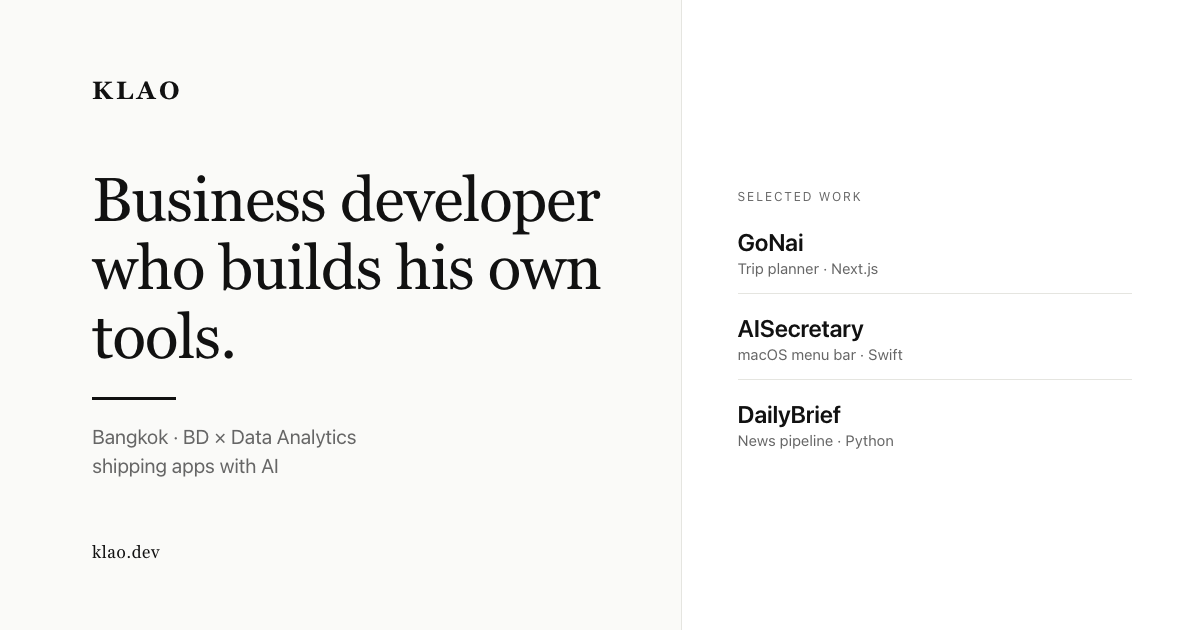
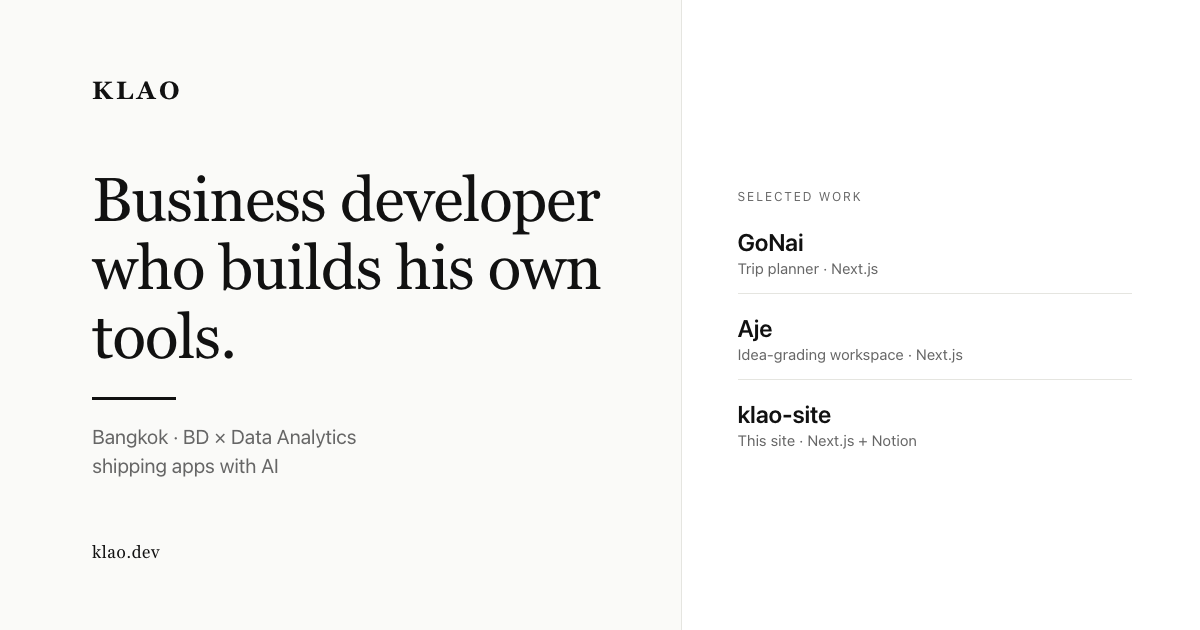
chore(og): share cards list GoNai, Aje, klao-site
AISecretary and DailyBrief left the site (spec §8); the share-card
artwork still named them.

Claude-Session: https://claude.ai/code/session_01DunfARiJ7kn4wfov81H1gp

Changed region(s): [[0.6167, 0.6333, 0.7708, 0.7238], [0.6167, 0.5127, 0.8017, 0.573]]

diff --git a/design/og/og-th.html b/design/og/og-th.html
@@ -70,8 +70,8 @@
     <div class="right">
       <div class="label">ผลงานเด่น</div>
       <div class="proj"><div class="pname">GoNai</div><div class="pdesc">วางแผนเที่ยว · Next.js</div></div>
-      <div class="proj"><div class="pname">AISecretary</div><div class="pdesc">macOS menu bar · Swift</div></div>
-      <div class="proj"><div class="pname">DailyBrief</div><div class="pdesc">ระบบข่าวอัตโนมัติ · Python</div></div>
+      <div class="proj"><div class="pname">Aje</div><div class="pdesc">ตัดเกรดไอเดียสตาร์ทอัพ · Next.js</div></div>
+      <div class="proj"><div class="pname">klao-site</div><div class="pdesc">เว็บนี้เอง · Next.js + Notion</div></div>
     </div>
   </div>
 </body>

diff --git a/design/og/og-en.html b/design/og/og-en.html
@@ -58,8 +58,8 @@
     <div class="right">
       <div class="label">Selected work</div>
       <div class="proj"><div class="pname">GoNai</div><div class="pdesc">Trip planner · Next.js</div></div>
-      <div class="proj"><div class="pname">AISecretary</div><div class="pdesc">macOS menu bar · Swift</div></div>
-      <div class="proj"><div class="pname">DailyBrief</div><div class="pdesc">News pipeline · Python</div></div>
+      <div class="proj"><div class="pname">Aje</div><div class="pdesc">Idea-grading workspace · Next.js</div></div>
+      <div class="proj"><div class="pname">klao-site</div><div class="pdesc">This site · Next.js + Notion</div></div>
     </div>
   </div>
 </body>
